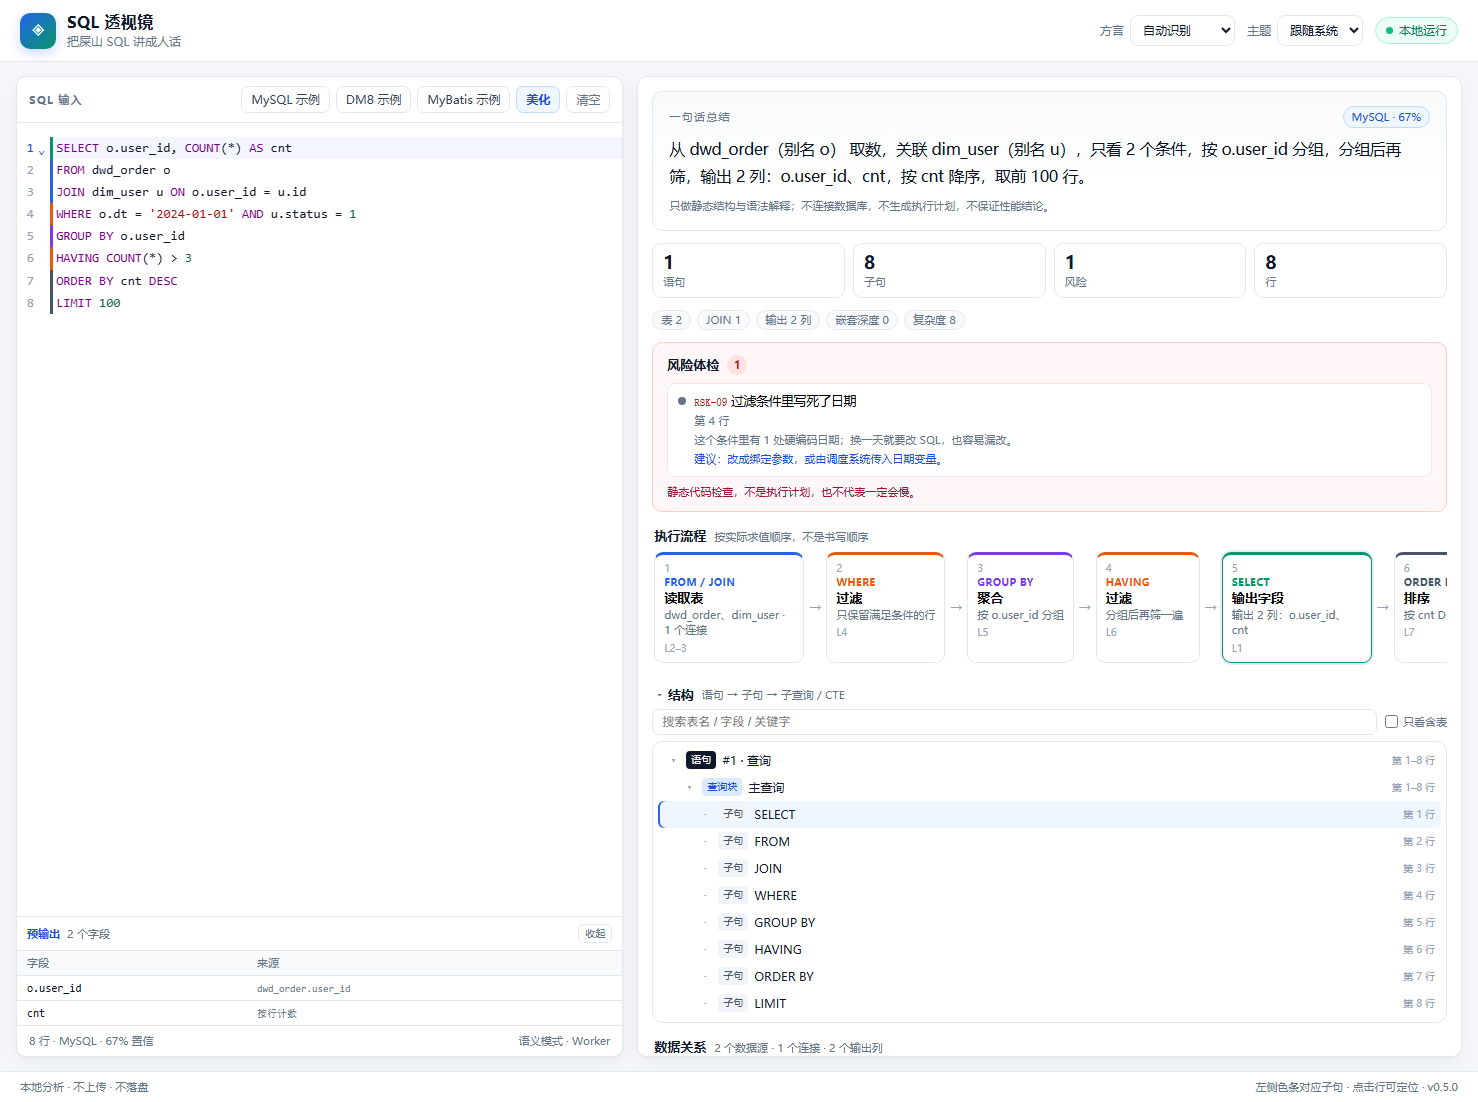
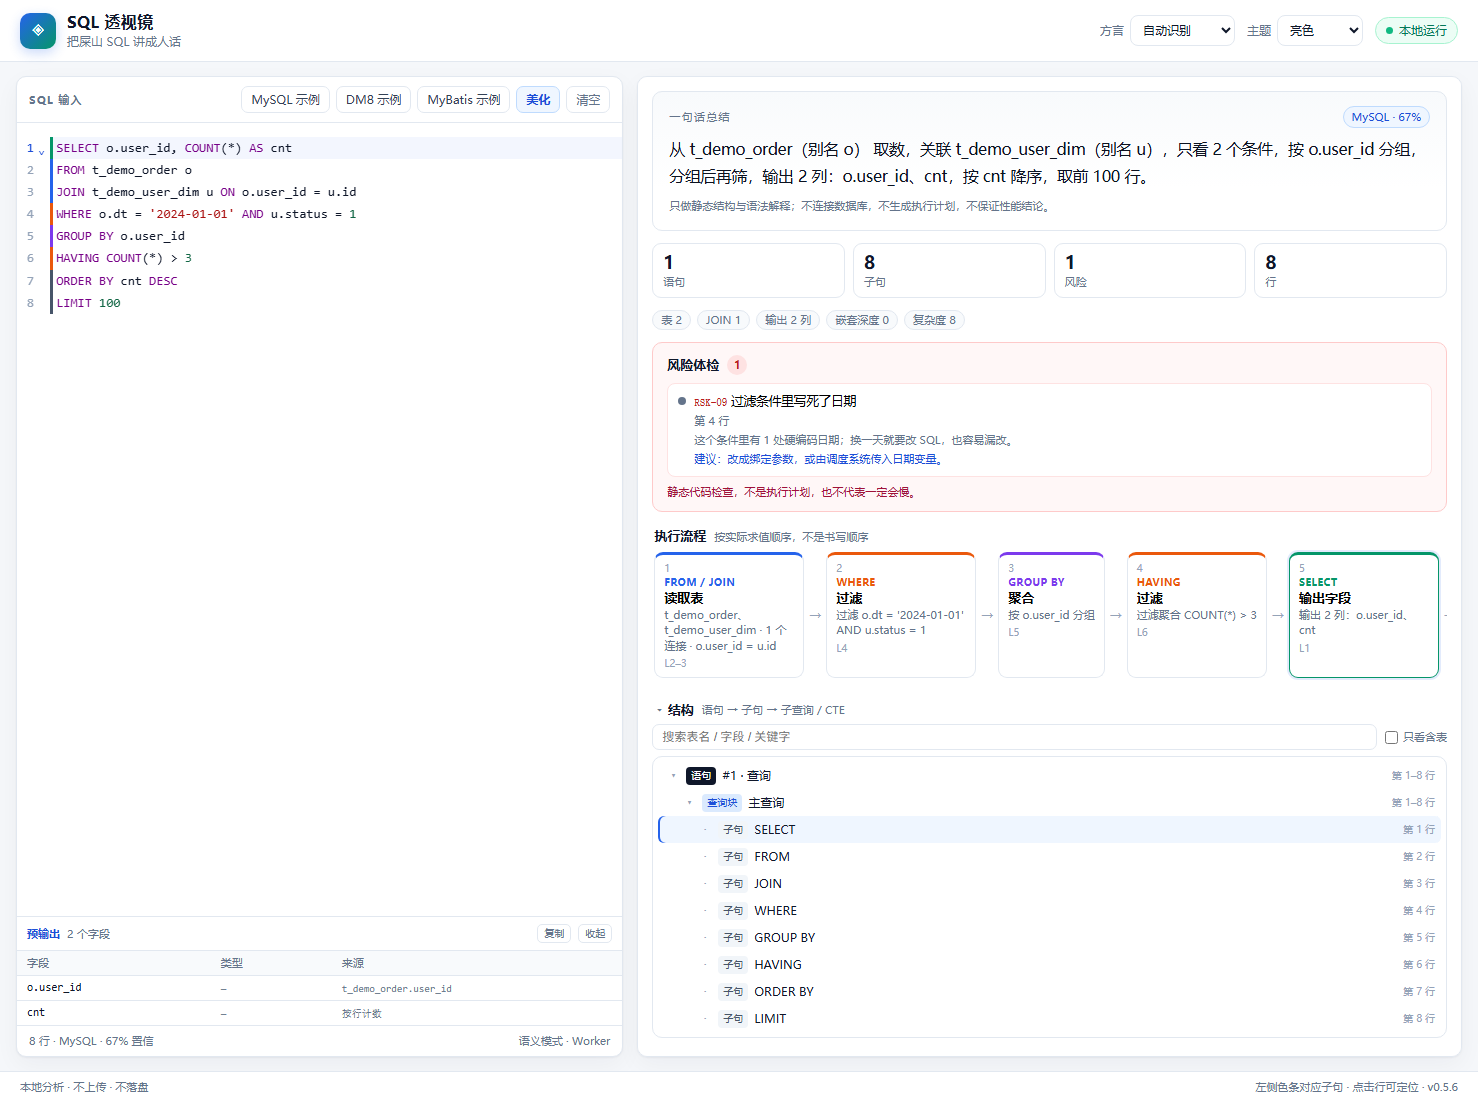
feat: 0.5.6 DDL 星号展开与多 JOIN 流程

diff --git a/app/src/core/explain.ts b/app/src/core/explain.ts
@@ -63,6 +63,49 @@ function cleanValue(value: string): string {
   return trimmed;
 }
 
+function expandDdlStars(
+  relations: Relations[],
+  schema: Map<string, Map<string, string>>,
+): void {
+  for (const relation of relations) {
+    const expanded: typeof relation.lineage = [];
+    for (const row of relation.lineage) {
+      if (row.output !== '*' && !row.output.endsWith('.*')) {
+        expanded.push(row);
+        continue;
+      }
+
+      const source = row.source.trim();
+      if (source.includes(' / ') || !source.endsWith('.*')) {
+        expanded.push(row);
+        continue;
+      }
+
+      const table = source.slice(0, -2);
+      const columns =
+        schema.get(table.toLowerCase()) ??
+        schema.get(table.toLowerCase().split('.').pop() ?? '');
+      if (!columns || columns.size === 0) {
+        expanded.push(row);
+        continue;
+      }
+
+      for (const [column, type] of columns) {
+        expanded.push({
+          ...row,
+          id: `${row.id}-${column}`,
+          output: column,
+          source: `${table}.${column}`,
+          transform: 'direct',
+          type,
+          confidence: 'exact',
+        });
+      }
+    }
+    relation.lineage = expanded;
+  }
+}
+
 /**
  * 按顶层 AND / OR 拆分谓词。BETWEEN x AND y 里的 AND 不拆。
  */
@@ -569,6 +612,7 @@ export function analyzeSql(
         if (type) row.type = type;
       }
     }
+    expandDdlStars(relations, ddlSchema);
   }
 
   const explanations = buildExplanations(statements, relations);

diff --git a/app/src/core/flow.ts b/app/src/core/flow.ts
@@ -122,11 +122,17 @@ function buildSegment(
     const conditions = joins
       .map((clause) => joinConditionText(clause.text))
       .filter((condition): condition is string => Boolean(condition));
+    const conditionDetail =
+      conditions.length > 1
+        ? `${conditions.slice(0, 2).map((condition) => compactSql(condition, 36)).join(' · ')}${
+            conditions.length > 2 ? '…' : ''
+          }`
+        : conditions[0];
     const detail =
       tableNames.length > 0
         ? `${tableNames.slice(0, 4).join('、')}${tableNames.length > 4 ? '…' : ''}${
             joins.length > 0 ? ` · ${joins.length} 个连接` : ''
-          }${conditions.length > 0 ? ` · ${conditions[0]}` : joins.length > 0 ? ' · 缺连接条件' : ''}`
+          }${conditionDetail ? ` · ${conditionDetail}` : joins.length > 0 ? ' · 缺连接条件' : ''}`
         : joins.length > 0
           ? `${sourceCount} 张表 · ${joins.length} 个连接`
           : `${sourceCount} 张表`;

diff --git a/app/tests/flow.test.ts b/app/tests/flow.test.ts
@@ -122,4 +122,20 @@ describe('buildFlow', () => {
     expect(where.detail).toContain("o.dt = '2024-01-01'");
     expect(having.detail).toContain('COUNT(*) > 3');
   });
+
+  it('多个 JOIN 的流程卡同时写出多个连接条件', () => {
+    const analysis = analyzeSql(
+      `SELECT o.id
+       FROM t_demo_order o
+       JOIN t_demo_user_dim u ON o.user_id = u.id
+       JOIN t_demo_product p ON o.product_id = p.id`,
+      'mysql',
+    );
+    const source = buildFlow(analysis.statements[0]!, analysis.relations[0]).find(
+      (step) => step.kind === 'source',
+    )!;
+
+    expect(source.detail).toContain('o.user_id = u.id');
+    expect(source.detail).toContain('o.product_id = p.id');
+  });
 });

diff --git a/app/tests/ddl.test.ts b/app/tests/ddl.test.ts
@@ -41,4 +41,21 @@ describe('DDL schema', () => {
     expect(rows[0]?.type).toBe('BIGINT');
     expect(rows[1]?.type).toBe('DECIMAL(18,2)');
   });
+
+  it('DDL 下 SELECT * 展开为具体列和类型', () => {
+    const analysis = analyzeSql(
+      `CREATE TABLE t_demo_order (
+        order_id BIGINT,
+        amount DECIMAL(18,2)
+      );
+      SELECT * FROM t_demo_order;`,
+      'mysql',
+    );
+    const rows = analysis.relations[1]?.lineage ?? [];
+
+    expect(rows.map((row) => row.output)).toEqual(['order_id', 'amount']);
+    expect(rows[0]?.source).toBe('t_demo_order.order_id');
+    expect(rows[0]?.type).toBe('BIGINT');
+    expect(rows[1]?.type).toBe('DECIMAL(18,2)');
+  });
 });

diff --git a/app/tests/corpus/manifest.ts b/app/tests/corpus/manifest.ts
@@ -86,6 +86,14 @@ export const CORPUS: CorpusCase[] = [
     note: 'MySQL 紧邻多语句',
   },
   {
+    file: 'mysql_complex_mixed.sql',
+    dialect: 'mysql',
+    mode: 'semantic',
+    minStatements: 1,
+    expectedTables: 2,
+    note: 'MySQL 多层 CTE + 窗口 + UNION 混合',
+  },
+  {
     file: 'mysql_case_when.sql',
     dialect: 'mysql',
     mode: 'semantic',

diff --git a/app/src/App.tsx b/app/src/App.tsx
@@ -665,7 +665,7 @@ export default function App() {
       <footer className="statusbar">
         <span>本地分析 · 不上传 · 不落盘</span>
         <span className="muted">
-          左侧色条对应子句 · 点击行可定位 · v0.5.5
+          左侧色条对应子句 · 点击行可定位 · v0.5.6
         </span>
       </footer>
     </div>

diff --git a/README.md b/README.md
@@ -8,7 +8,7 @@
 
 ![SQL 透视镜界面预览](assets/preview.png)
 
-> 当前 **0.5.5**：UNION 分支独立流程；补语句识别边界；预输出支持 DDL 类型、复制、记忆收起。
+> 当前 **0.5.6**：`SELECT *` 在 DDL 下展开；复杂 SQL 验收；多 JOIN 流程卡；截图统一 `t_demo_*`。
 
 ---
 
@@ -32,6 +32,7 @@
 
 | 版本 | 更新了啥 |
 | --- | --- |
+| 0.5.6 | `SELECT *` 在 DDL 下展开具体字段和类型；复杂 CTE + 窗口 + UNION 验收；多 JOIN 流程卡写多个连接条件；截图统一为 `t_demo_*` |
 | 0.5.5 | UNION 主查询和每个分支独立流程；补括号 UNION / 连续 UNION / WITH + UNION / 注释 / 紧邻多语句；预输出支持 DDL 类型、复制字段、记忆收起、长字段名和大量字段滚动；新增表名硬性检查、pre-commit 和 CI |
 | 0.5.4 | CTE 派生列继续追到定义；`SELECT *` 穿过已知 CTE / 派生表展开；WHERE / JOIN / HAVING 写到具体条件与关联键 |
 | 0.5.3 | 子查询派生列按别名解析；`COUNT(*) AS CNT` 不再误报成物理表字段，标成「按行计数 / 聚合」 |
@@ -39,7 +40,7 @@
 | 0.5.1 | 执行流程块改为详情弹窗：输出字段、来源表、连接关系、风险和定位原文 |
 | 0.5.0 | 编辑器下方预输出表格；执行流程和一句话总结写到具体字段与来源 |
 
----
+完整记录见 [`CHANGELOG.md`](CHANGELOG.md)。
 
 ---
 
@@ -83,8 +84,8 @@
 | 性能 | parser 不进主包，首屏走 Worker；formatter 按需加载；10k 行中位数约 1.8 s |
 | PWA / 离线 | manifest + Service Worker 预缓存；可安装、断网刷新、更新提示；只缓存静态产物，不缓存 SQL |
 | 单文件离线 | `pnpm build:single` 生成一个 HTML；双击 `file://` 打开；Worker 不可用时自动走主线程 |
-| 执行流程 | 按真实求值顺序展示；FROM 阶段列出具体表，WHERE / JOIN / HAVING 写具体条件与键，SELECT 阶段列出具体字段与别名；UNION / UNION ALL 的主查询和每个分支独立成段，再生成「合并结果」阶段；点流程块打开详情弹窗 |
-| 预输出 | 编辑器下方表格，列字段、类型和来源；有 `CREATE TABLE` 时显示 DDL 类型；支持复制字段、记住收起状态、长字段名省略和大量字段滚动 |
+| 执行流程 | 按真实求值顺序展示；FROM 阶段列出具体表，WHERE / JOIN / HAVING 写具体条件与键，多 JOIN 同时写出多个连接条件；SELECT 阶段列出具体字段与别名；UNION / UNION ALL 的主查询和每个分支独立成段，再生成「合并结果」阶段；点流程块打开详情弹窗 |
+| 预输出 | 编辑器下方表格，列字段、类型和来源；有 `CREATE TABLE` 时显示 DDL 类型，`SELECT *` 也展开成具体字段；支持复制字段、记住收起状态、长字段名省略和大量字段滚动 |
 | 结构树 | 语句 → 主查询 → 子句 → 子查询 / CTE / UNION 分支；FROM / WHERE / HAVING / SELECT 子查询都按所在子句展开，可折叠、搜索、只看含表，点击定位 |
 | 数据关系 | 表关系图 + 字段血缘 + 查询块；CTE 派生列继续追到底层定义，`SELECT *` 可穿已知 CTE / 派生表展开列；表关系图补 CTE 依赖边；UNION 分支血缘合并标注；查询块用 SVG 图 + 列表展示主查询 / CTE / 子查询 / UNION 分支 |
 | 多语句 | 结果区顶部「语句 1 / 语句 2」切换；总结、数据关系和指标条跟随当前语句，结构树 / 流程 / 解释仍展示全文 |
@@ -95,9 +96,9 @@
 | 风险提示 | 已接入 17 条：结构 / 性能 / 语义 / DM8 四类；规则注册表 + 置信度 + 去重 + QueryBlock 上下文 |
 | 双向定位 | 点行 → 高亮对应解释；点解释 → 滚动到原文行 |
 | 隐私自证 | 构建产物扫描：无 `fetch` / XHR / WebSocket / 外链 |
-| 真实语料 | 50 条脱敏 SQL，覆盖四方言、CTE、窗口、多语句、MyBatis、坏 SQL、规则正反例 |
+| 真实语料 | 51 条脱敏 SQL，覆盖四方言、CTE、窗口、多语句、MyBatis、坏 SQL、规则正反例 |
 | 性能基准 | 2000 行单查询中位数约 95.5 ms；`pnpm bench` 可复现 |
-| 测试 | 180 个测试：130 个单元测试 + 50 条真实语料 |
+| 测试 | 183 个测试：132 个单元测试 + 51 条真实语料 |
 
 ### 解析失败时
 
@@ -185,7 +186,7 @@ pnpm dev              # http://localhost:5173
 | 命令 | 作用 |
 | --- | --- |
 | `pnpm dev` | 本地开发 |
-| `pnpm test` | 180 个测试（130 单元 + 50 语料） |
+| `pnpm test` | 183 个测试（132 单元 + 51 语料） |
 | `pnpm bench` | 跑性能基准，输出行数 / 中位数 / 最小 / 最大 |
 | `pnpm build` | 类型检查 + 生产构建 + 生成 Service Worker |
 | `pnpm build:single` | 构建单文件 `dist-single/sql-xray.html`，并检查无外部资源 |
@@ -216,7 +217,7 @@ pnpm dev              # http://localhost:5173
 
 ### 真实语料
 
-`app/tests/corpus/` 下有 **50 条脱敏 SQL**，覆盖：
+`app/tests/corpus/` 下有 **51 条脱敏 SQL**，覆盖：
 
 - MySQL：GMV 聚合、窗口函数、两层 CTE、UNION、CASE、IN 子查询、多表 JOIN、JSON、注释里的分号、派生表、多语句、派生表 `ORDER BY`、`DISTINCT` + JOIN、`UNION` 去重、重复表达式、自连接重复表、3 层嵌套、SELECT 相关子查询、低基数列 JOIN + 聚合、隐式类型转换
 - PostgreSQL：DISTINCT ON、FILTER、CTE + INTERVAL、`::` 类型转换、LATERAL
@@ -366,7 +367,7 @@ id = hash(kind + ':' + startLine + ':' + startCol + ':' + normalize(text)).slice
 - 左：CodeMirror 6 编辑器，子句左侧彩色竖条（取数蓝 / 过滤橙 / 聚合紫 / 计算绿 / 排序灰 / 风险红）。
 - 右：一句话总结 → 指标 → 风险 → 执行流程 → 结构 → 数据关系。
 - 点解释跳到行，点行高亮解释。
-- 不加载 Web Font、不引 UI 组件库；主包约 203.3 KB gzip，`format` 按需 74 KB，Worker 解析包约 518.4 KB，CSS 6.6 KB，SW 0.9 KB。
+- 不加载 Web Font、不引 UI 组件库；主包约 203.3 KB gzip，`format` 按需 74 KB，Worker 解析包约 518.6 KB，CSS 6.6 KB，SW 0.9 KB。
 
 ### 7.9 设计规范（实现依据）
 
@@ -417,7 +418,7 @@ id = hash(kind + ':' + startLine + ':' + startCol + ':' + normalize(text)).slice
 | M2 | 看懂 | 语义 AST、总结、结构树、MyBatis 容错、Worker | ✅ 完成 |
 | M3 | 看透 | 表关系、血缘、17 条规则、指标、DM8 `(+)` | 规则 17/17；UNION 血缘合并 / CTE 图追底 / 查询块图完成；DML 仅结构解释；导出后置 |
 | M4 | 可用 | 性能、PWA、单文件离线、暗色模式、发布 | 0.4.0–0.4.4 完成；1.0 发布待 M4-6 |
-| M5 | 精进 | 预输出、解释到字段 / 来源、流程详情 | 0.5.0 预输出 + SELECT 具体化；0.5.1 流程详情；0.5.2 UNION ALL + 移除逐句解释列表；0.5.3 派生列血缘；0.5.4 CTE 派生列 + SELECT * 展开 + JOIN/WHERE/HAVING 具体化；0.5.5 UNION 分支流程 + 预输出增强 |
+| M5 | 精进 | 预输出、解释到字段 / 来源、流程详情 | 0.5.0 预输出 + SELECT 具体化；0.5.1 流程详情；0.5.2 UNION ALL + 移除逐句解释列表；0.5.3 派生列血缘；0.5.4 CTE 派生列 + SELECT * 展开 + JOIN/WHERE/HAVING 具体化；0.5.5 UNION 分支流程 + 预输出增强；0.5.6 SELECT * DDL 展开 + 多 JOIN + 验收 |
 | V2 | 增强 | 两版对比、完整 MyBatis、DDL、AI（BYOK） | 想法池 |
 
 M4 只剩发布验收；导出仍放在最后，不阻塞 1.0。后续增强见 V2 想法池。
@@ -460,7 +461,7 @@ sql-Visualization/
 │  │  └─ ui/                 # 编辑器 / 流程详情 / 主页面
 │  ├─ public/                # manifest + PWA 图标
 │  ├─ tests/                 # 单元测试
-│  │  └─ corpus/             # 50 条脱敏 SQL 语料
+│  │  └─ corpus/             # 51 条脱敏 SQL 语料
 │  ├─ benchmark/             # 性能基准
 │  ├─ scripts/               # 隐私检查 + Service Worker / 单文件生成
 │  ├─ dist/                  # 生产构建产物（不提交）

diff --git a/CHANGELOG.md b/CHANGELOG.md
@@ -1,0 +1,41 @@
+# 更新记录
+
+## 0.5.6
+
+- `SELECT *` 在提供 `CREATE TABLE` 时展开为具体字段，并显示 DDL 类型。
+- 增加多层 CTE + 窗口函数 + UNION 的复杂 SQL 语料。
+- 多 JOIN 的流程卡同时写出多个连接条件。
+- 更新演示截图，表名统一为 `t_demo_*`。
+- 各版本更新内容集中到本文件。
+
+## 0.5.5
+
+- UNION / UNION ALL 的主查询和每个分支独立生成流程卡，合并阶段单独展示。
+- 补语句识别边界：括号 UNION、连续 UNION、WITH + UNION、注释、紧邻多语句。
+- 预输出支持 DDL 字段类型、复制字段、记忆收起、长字段名和大量字段滚动。
+- 新增表名硬性检查，接入 pre-commit 和 CI。
+
+## 0.5.4
+
+- CTE 派生列继续追到底层定义。
+- `SELECT *` 可穿过已知 CTE / 派生表展开列。
+- WHERE / JOIN / HAVING 流程卡写到具体条件与关联键。
+
+## 0.5.3
+
+- 子查询派生列按别名解析，`COUNT(*)` 不再误报成物理表字段。
+- 派生聚合标成「按行计数 / 聚合」。
+
+## 0.5.2
+
+- 修正 UNION ALL 识别，新增合并阶段。
+- 移除独立逐句解释列表，解释收进执行流程详情。
+
+## 0.5.1
+
+- 执行流程块改为详情弹窗：输出字段、来源表、连接关系、风险和定位原文。
+
+## 0.5.0
+
+- 编辑器下方新增预输出表格。
+- 执行流程和一句话总结写到具体字段与来源。
